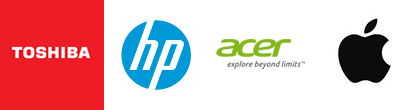
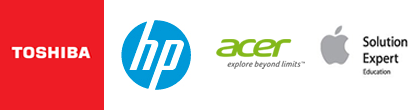
Updated brands images to Apple solution Expert Education

Changed region(s): [[0.75, 0.1636, 1.0, 0.7636]]

diff --git a/index.htm b/index.htm
@@ -87,7 +87,7 @@
 										<img src="images/nsh_apple_ipad.png" alt="Apple iPad 2 16GB" />
 									</a>
 									<h2><a href="http://www.rm.com/shops/rmshop/Product.aspx?cref=PD2606989&amp;srcurl=shop_homepage">Apple iPad 2 16GB</a></h2>
-									<p>Full classroom sets available in black with Wi-Fi.</p>
+									<p>Full range available including classroom sets. Range starts from:</p>
 									<h4>From &pound;269.95</h4>
 								</div>
 								<!-- End of Bestseller product 1 -->	
